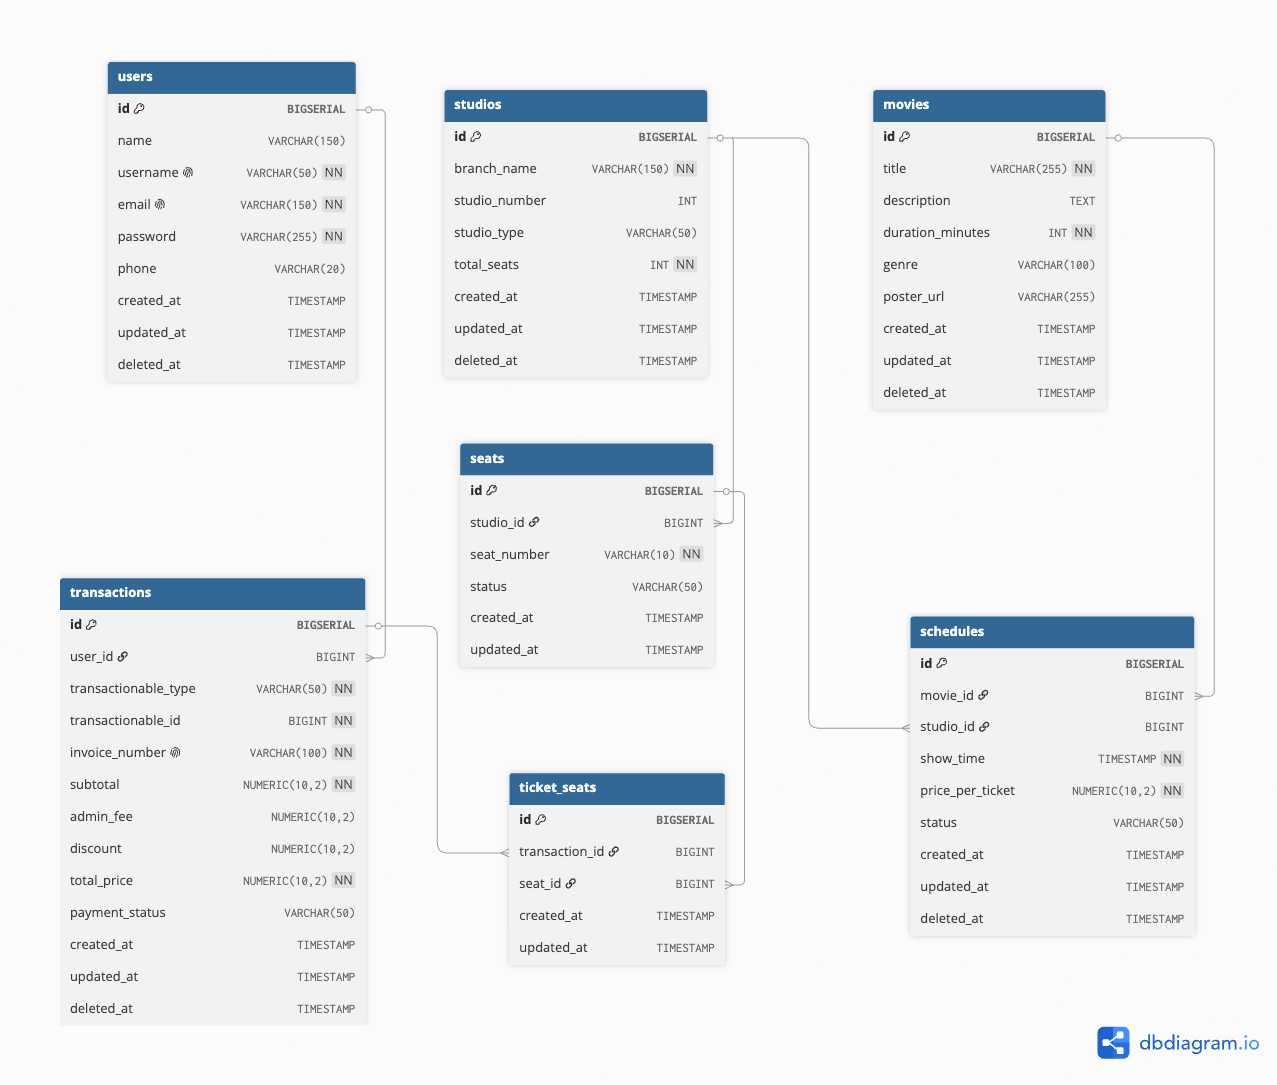
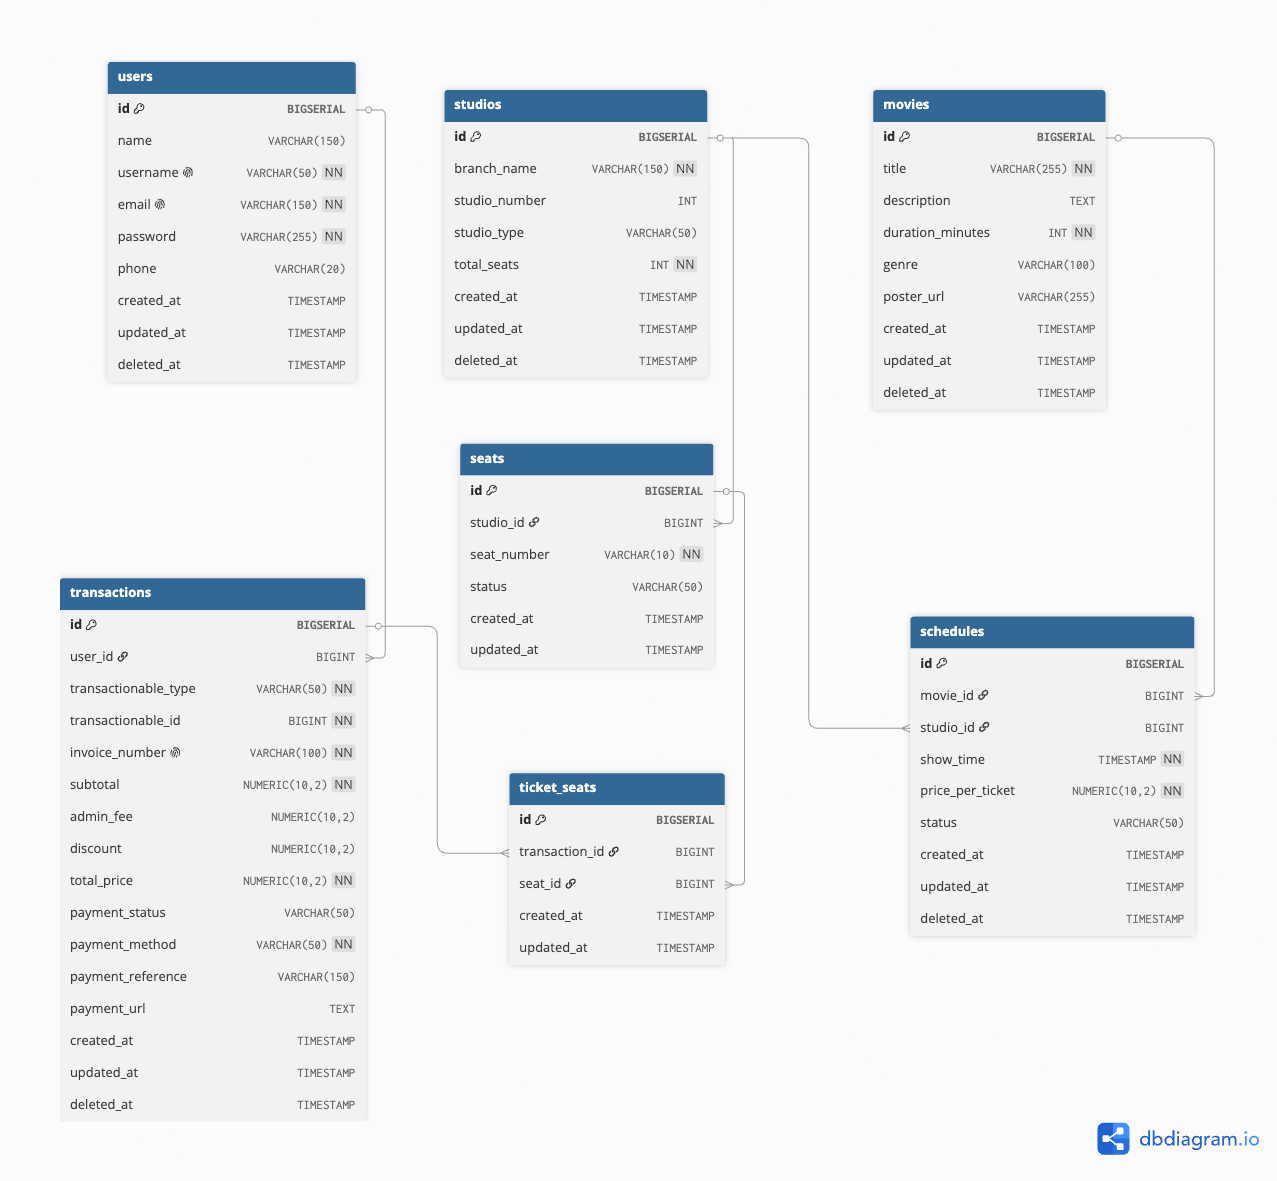
add payment method, url, and reference

diff --git a/system-design/README.md b/system-design/README.md
@@ -1,1 +1,90 @@
-Penjelasan desain sistem
+# Analisis dan Penjelasan System Design - Platform Tiket Bioskop Nasional
+
+Dokumen ini menjelaskan pendekatan arsitektur sistem untuk menangani tantangan *high-concurrency* (lonjakan trafik massal), manajemen ketersediaan kursi, serta skenario penanganan kegagalan transaksi dan pembatalan sepihak oleh bioskop.
+
+---
+
+## 1. Solusi Sistem Pemilihan Tempat Duduk (*High Concurrency Seat Locking*)
+
+### Tantangan Utama
+
+Pada platform bioskop skala nasional, momen perilisan film populer (*box office premier*) sering kali memicu lonjakan trafik ekstrem. Ribuan pengguna dapat menekan tombol untuk memilih nomor kursi yang sama (misalnya kursi `E11`) di milidetik yang sama. Jika backend langsung melakukan operasi baca-tulis ke database relational (PostgreSQL), akan terjadi *database locking/bottleneck* yang memperlambat sistem, atau bahkan menyebabkan *double booking* (satu kursi terbeli oleh dua orang).
+
+### Solusi Arsitektur
+
+Sistem ini memisahkan lapisan penanganan kuncian kursi sementara (*temporary lock*) dari database utama dengan memanfaatkan **Redis Distributed Caching**.
+
+1. **In-Memory Seat Validation:** Saat pengguna memilih kursi dan menekan tombol "Lanjutkan ke Pembayaran", backend tidak langsung memeriksa PostgreSQL. Backend akan mengecek status kuncian kursi tersebut di dalam Redis cluster menggunakan operasi atomik `SETNX` (Set if Not Exists) atau algoritma **Redlock**.
+2. **TTL-Based Temporary Locking:** Jika kursi masih kosong, Redis akan membuat kuncian sementara berupa key-value pair dengan mekanisme **TTL (Time-to-Live) selama 10 menit**.
+* *Key Format:* `lock:schedule:{schedule_id}:seat:{seat_id}`
+* Proses ini berjalan di memori (*in-memory*), sehingga latensi pengecekan sangat rendah meskipun diakses puluhan ribu orang secara bersamaan.
+
+
+3. **Isolation Principle:** Pengguna lain yang mencoba memilih kursi yang sama dalam rentang waktu tersebut akan langsung ditolak oleh backend berdasarkan kuncian di Redis, tanpa sempat membebani PostgreSQL dengan query *read/write*.
+
+---
+
+## 2. Mekanisme Pencatatan Transaksi dan Restok Tiket Otomatis
+
+Pencatatan data dilakukan secara terstruktur demi menjaga performa penulisan database utama tetap stabil:
+
+### A. Alur Pencatatan (Checkout Sukses)
+
+Begitu kursi berhasil dikunci di Redis, backend segera melakukan operasi penulisan ke database PostgreSQL dalam satu kesatuan blok transaksi database (*Database Transaction / ACID Validation*):
+
+1. Membuat baris baru pada tabel `transactions` dengan status `payment_status = 'PENDING'`.
+2. Mencatat daftar nomor kursi yang dipesan ke tabel `ticket_seats`.
+3. Menghasilkan nomor invoice unik dan meminta *Payment Gateway* untuk menerbitkan instruksi pembayaran (seperti Virtual Account atau QRIS).
+
+### B. Alur Restok Tiket Otomatis
+
+Sistem tiket ini dirancang agar **tidak perlu menghapus data** pada tabel `ticket_seats` ketika transaksi batal atau kedaluwarsa. Proses *restock* (pengembalian tiket ke pasar) berjalan secara pasif dan aktif melalui dua mekanisme:
+
+1. **Mekanisme Pasif (Redis TTL Timeout):** Jika pengguna tidak menyelesaikan pembayaran dalam waktu 10 menit, kunci sementara di Redis akan otomatis terhapus (*expired*).
+2. **Mekanisme Aktif (Cron Job/Worker & PG Callback):** Sebuah *background worker* di backend akan memeriksa tabel `transactions` secara berkala atau menerima *callback* kegagalan langsung dari *Payment Gateway*. Status transaksi yang melewati batas waktu akan diperbarui dari `PENDING` menjadi `EXPIRED` atau `FAILED`.
+
+**Mengapa Kursi Otomatis Ter-restock?**
+Karena query pengecekan ketersediaan kursi oleh pengguna baru di aplikasi hanya menyaring transaksi yang memiliki status `PENDING` atau `SUCCESS`. Ketika transaksi lama berubah menjadi `EXPIRED`, kursi tersebut secara otomatis **tidak akan tersaring** lagi oleh query pencarian, yang berarti kursi tersebut langsung berstatus **tersedia kembali untuk dipilih publik detik itu juga**. Histori transaksi gagal tetap aman tersimpan di database untuk kebutuhan audit internal IT tanpa mengorbankan fungsi bisnis aplikasi.
+
+### C. Penanganan State Transaksi dan Retensi Data Third-Party (Fintech Best Practice)
+
+Untuk menjaga efisiensi kinerja jaringan dan menghindari batasan limitasi panggilan API (Rate Limiting) dari server Payment Gateway, platform ini menerapkan prinsip *State Persistence*:
+
+1. **Local Data Persistence:** Saat pengguna sukses melakukan checkout, backend langsung meminta instansiasi kode bayar/Virtual Account ke Payment Gateway, lalu menyimpan metadata tersebut (`payment_method`, `payment_reference`, dan `payment_url`) secara permanen ke database lokal.
+2. **Anti-Polling Principle:** Ketika pengguna sempat meninggalkan aplikasi lalu kembali lagi ke halaman peninjauan pembayaran, aplikasi frontend cukup melakukan query baca lokal (`SELECT`) ke database internal untuk menampilkan nomor VA atau QR Code yang sudah ada. Backend tidak akan melakukan pemanggilan sinkronus berulang (re-hit) ke API Payment Gateway demi menghemat bandwith jaringan server.
+3. **Event-Driven Reconciliation:** Pembaruan status pembayaran sepenuhnya dikendalikan secara asinkronus berbasis kejadian (Event-Driven) melalui Webhook/Callback yang dikirim oleh Payment Gateway ke server kita ketika pengguna menyelesaikan pembayaran di jaringan bank.
+
+---
+
+## 3. Alur Refund dan Pembatalan dari Pihak Bioskop (*Force Majeure*)
+
+Jika terjadi kendala teknis di lapangan (misalnya proyektor studio rusak, pemadaman listrik, atau bencana alam), pihak bioskop harus membatalkan penayangan secara sepihak dan mengembalikan dana konsumen secara otomatis demi menjaga *Customer Experience*.
+
+Sistem menangani skenario ini melalui arsitektur berbasis kejadian asinkronus (*Asynchronous Event-Driven Flow*):
+
+```
+[Admin Bioskop] ──> Ubah Status Schedule ke 'CANCELLED'
+                                │
+                                ▼
+                     [Trigger Async Worker]
+                                │
+            ┌───────────────────┴─────────────────────────┐
+            ▼                                             ▼
+ [Scan Tabel Transactions]                      [Kirim Notifikasi Massal]
+(Cari Schedules terkait & Status SUCCESS)       (Via Email / WhatsApp API)
+            │
+            ▼
+[Bulk Request Refund ke PG API]
+            │
+            ▼
+[Ubah Status Transaksi ke 'REFUNDED']
+
+```
+
+### Tahapan Eksekusi Sistem:
+
+1. **State Mutation:** Admin bioskop mengubah status jadwal film terkait di dasbor manajemen menjadi `CANCELLED`. Perubahan ini otomatis mengaktifkan penonaktifan jadwal agar tidak ada pengguna baru yang bisa membeli tiket pada sesi tersebut.
+2. **Asynchronous Background Processing:** Backend memicu sebuah *worker* (background job) secara asinkronus agar proses pembatalan massal tidak membuat aplikasi admin mengalami *freeze/timeout*.
+3. **Data Scanning:** *Worker* akan menyisir tabel `transactions` untuk mencari semua transaksi yang memiliki `transactionable_type = 'schedules'`, `transactionable_id = [ID jadwal terkait]`, dan `payment_status = 'SUCCESS'` (transaksi yang sudah lunas).
+4. **Automated PG Refund Interconnect:** Untuk setiap transaksi sukses yang ditemukan, backend akan menembak API *Payment Gateway* (menggunakan *Idempotency-Key* berbasis nomor invoice asli untuk mencegah *double refund*) dengan instruksi pengembalian dana penuh (*Full Refund*) ke metode pembayaran awal pengguna (E-Wallet/Virtual Account).
+5. **Audit Trail and Notification:** Setelah *Payment Gateway* sukses memproses refund, backend mengubah status transaksi menjadi `REFUNDED`. Di saat yang bersamaan, sistem secara otomatis mengirimkan notifikasi resmi (melalui WhatsApp API atau Email) kepada pengguna bahwa jadwal tayang dibatalkan dan dana mereka sedang dikembalikan oleh bank pengirim.
